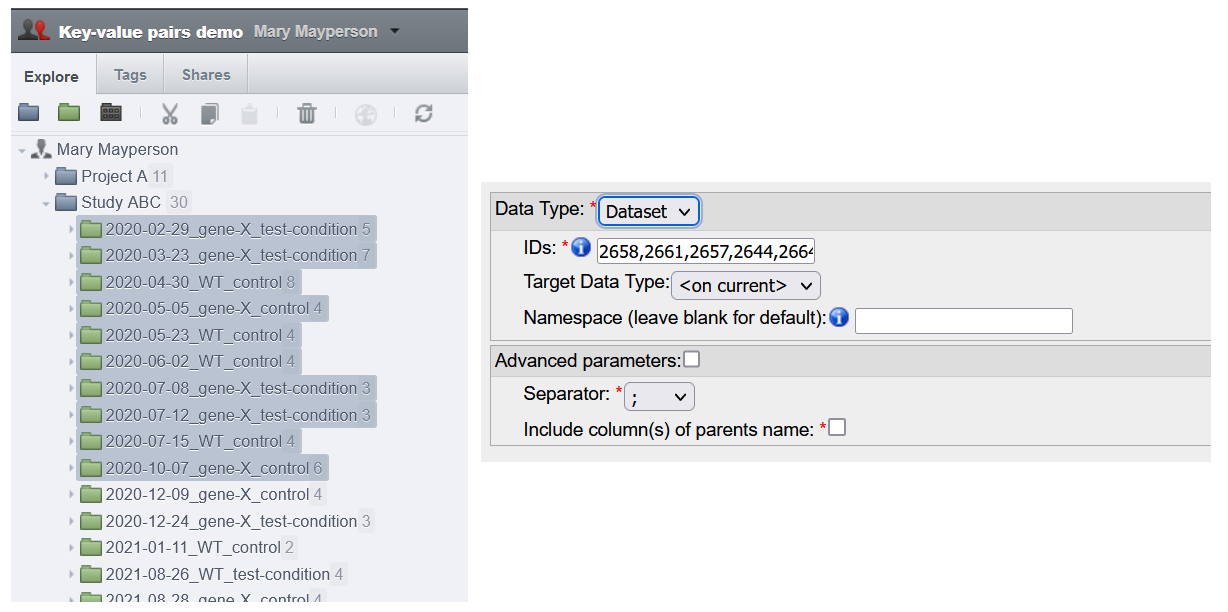
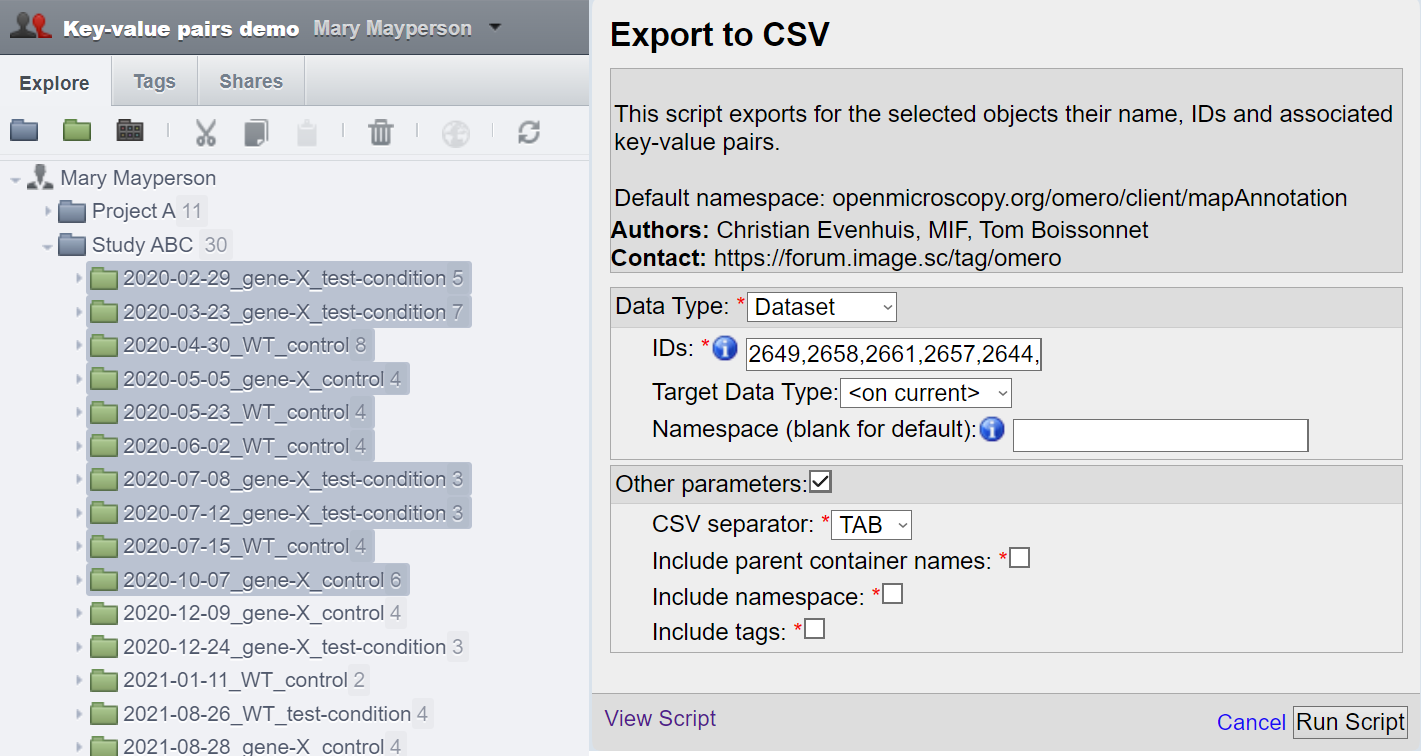
change pictures and update doc

diff --git a/docs/gettingstarted.rst b/docs/gettingstarted.rst
@@ -10,23 +10,22 @@ Key-Value pairs (MapAnnotations) and Tags (TagAnnotations) by batch:
 * Delete Key-Value pairs
 * Convert the namespaces of Key-Value pairs
 
-Following this walkthrough, we hope to give you an understanding of each \
-functionality, including the fourth one on namespaces, likely unclear \
-to a newcomer.
+Following this walkthrough, we hope to give you an understanding of \
+the four scripts that will help you to manipulate your annotations.
 
 Object selection with the scripts
 ---------------------------------
 
-The object selection is the same for the four scripts. In OMERO there are \
-two distinct hierarchies, one for high content screening, and a regular one:
+The object selection logic is the same for all four scripts. In OMERO there are \
+two distinct hierarchies:
 
 * **Projects** → **Datasets** → **Images**
 * **Screens** → **Plates** → (**Wells** or **Acquisition/Run**) → **Images**
 
-More details about selecting High-Content-Screening are described in another \
-section (:ref:`select-HCS`).
+More details about selecting High-Content-Screening are given in another \
+section (see :doc:`Selecting High-Content-Screening </indepth>`).
 
-To select objects to manipulate by batch, the scripts offer three distinct ways.
+To select which objects to manipulate by batch, the scripts offer three distinct ways.
 
 Direct selection
 ^^^^^^^^^^^^^^^^
@@ -34,7 +33,10 @@ The first is to simply select the all the desired objects. Opening the script \
 after selecting the object will prefill the script parameters with the right \
 object type and IDs:
 
-.. image:: images/1_selecting_all_autofill.png
+.. figure:: images/1_selecting_all_autofill.png
+
+   *Selection of multiple datasets and the auto-filled Export to CSV script.*
+..
 
 For the direct selection, leave the Target Data Type as **<on current>** \
 (in this example, choosing **Dataset** would also work).
@@ -45,10 +47,12 @@ Instead of selecting the objects one by one, we can select the parent object \
 and set the **Target Data Type** to the type of the children objects \
 we want to select.
 
-.. image:: images/2_selecting_parentchild_autofill.png
+.. figure:: images/2_selecting_parentchild_autofill.png
 
-In this example, we would select all the **Images** contained by the **Datasets** \
-of the **Project:701**.
+   *Selection of all the images of a project and the auto-filled Export to CSV script.*
+..
+
+In this example, we would select all the **Images** found under the **Project:701**.
 
 Tag selection
 ^^^^^^^^^^^^^
@@ -57,21 +61,25 @@ This grants additional flexibility, either to select objects attached to \
 different projects or different owners, or to have a finer control over \
 which objects to process.
 
-.. image:: images/3_selecting_tags.png
+.. figure:: images/3_selecting_tags.png
+
+   *Selection of a subset of datasets from a tag and the auto-filled Export to CSV script.*
+..
 
 The selection works in the same way as for the children selection. Note \
-that choosing **<on current>** for Target Data Type will result in an \
-error in the case of tags.
+that choosing **<on current>** for **Target Data Type** will result in an \
+error in this case.
 
 Exporting Key-Value pairs
 -------------------------
 
-Exporting Key-Value pairs will result in a .csv file with the same structure \
-you would expect when importing from a .csv file.
-As such one can re-create the original file if it is lost or has to be adapted.
+Exporting Key-Value pairs will generate a .csv file with the header names \
+expected by the import .csv script. This has two use:
 
-Additionally, it can be used to generate a .csv file with a list of object \
-names and IDs that we can fill with columns of annotation data later.
+* export existing key-value pairs (along other things like namespace or tags). \
+  This can be useful to modify them before re-import, or to transfer annotations \
+  accross groups.
+* export a list of objects with their name and ID.
 
 .. figure:: images/4_export_output.png
 
@@ -79,34 +87,33 @@ names and IDs that we can fill with columns of annotation data later.
 ..
 
   Tip: If you have Key-Value pairs attached to your objects that you do not \
-  wish to export (to create a template like shown above), specify a namespace \
-  that is not in use by any of the objects (rolling your head on the keyboard \
-  is one possibility).
-
-.. figure:: images/5_export_output_2.png
-
-   *Exported .csv with some test Key-Value pairs*
-..
+  wish to export (to create a template like shown above), specify a not-in-use \
+  namespace (any random input will work).
 
 
 Importing Key-Value pairs
 -------------------------
 
 Starting from the file we exported as explained in the previous section, \
-we proceed to edit it within a spreadsheet editor.
+we proceed to edit it within a spreadsheet editor, adding more columns to the csv:
 
-.. image:: images/5_KV_to_import.png
+.. figure:: images/5_KV_to_import.png
+
+   *Result of populating the csv shown in a notepad*
+..
 
 We added several columns to annotate our dataset with Key-Value pairs \
 following the `REMBI <https://doi.org/10.1038/s41592-021-01166-8>`_ guidelines \
-(after saving the document, it seems that our ``;`` separator was \
-replaced by ``,``).
+(after saving the document, our ``;`` separator became ``,``).
 
 We proceed and start the script **Import Key-Value from .csv**.
 
-.. image:: images/6_script_import.png
+.. figure:: images/6_script_import.png
 
-A few explanation on the parameters we chose here:
+   *Selection of all the datasets of a project and the Import from CSV script.*
+..
+
+A few explanation on some of parameters we chose here:
 
 * Data Type & ID: We selected the project containing all of our datasets.
   Only the datasets having their ID in the .csv file will be annotated with
@@ -115,25 +122,26 @@ A few explanation on the parameters we chose here:
   correspond to datasets).
 * File annotation: The .csv file was picked from the local computer via the
   **Choose file** menu (ID of attached file on OMERO could be picked instead).
-* Target ID/name colname: These refer to the column names for the columns \
-  of either the ID or name of the target objects in the .csv. You can refer to the \
-  target objects with both, although names might not be unique.
-  In our example the .csv already has the default values the script proposes.
-
+* All other parameters can help you fine tune the way to import annotations. More \
+  on that in the :doc:`advanced section</indepth>` of this guide.
 
 
 We can see in the OMERO activities that the Key-Value pairs were added to 5 \
 datasets out of the 11 present in this project (as expected). One of them \
 is shown bellow as an example.
 
-.. image:: images/7_KV_import_printout.png
+.. figure:: images/7_KV_import_printout.png
+
+  *The script output (5 entries in the csv matched to 5 dataset out of 11) and the\
+  resulting key-value pairs annotation.*
+..
 
 Converting the Key-Value pairs namespace
 ----------------------------------------
 
 Key-Value pairs are assigned a category/label (known as namespace). \
-This grants flexibility so that multiple annotations on one object can be \
-processed independantly (like exporting/deleting only those with a given \
+This grants flexibility so that different annotations can be \
+distinguished or isolated (like for exporting/deleting only those with a given \
 namespace).
 
    In fact, if you created Key-Value pairs in OMERO.web, you have used \
@@ -144,13 +152,20 @@ namespace).
 Let's go ahead and change that default client namespace to something else, \
 that will assign a category to our Key-Value pairs (and make the Key-Value \
 pairs non-editable in the webclient. Note: this does not prevent Key-Value
-pairs from other ways that exist to edit them).
+pairs from being edited by other means).
 
-.. image:: images/8_convert_namespace.png
+.. figure:: images/8_convert_namespace.png
+
+  *The script to convert the namespace of key-value pairs annotations.*
+..
 
 And here is our five Key-Value pairs annotations with converted namespace:
 
-.. image:: images/9_converted_KV.png
+.. figure:: images/9_converted_KV.png
+
+  *The script output (5 dataset had annotations with the default namespace) and the\
+  resulting key-value pairs annotation.*
+..
 
 Deleting Key-Value pairs
 ------------------------
@@ -168,16 +183,17 @@ the same parent object and the same namespace as we just did for the export, \
 we can tick the box to confirm that we understand that data will be deleted \
 **forever** from the server.
 
-(Exporting on the left, deleting on the right)
+.. figure:: images/10_export_delete.png
 
-.. image:: images/10_export_delete.png
+  *The two scripts used one after another. Export the annotations for backup \
+  before removing them from the server with the Remove KV script.*
+..
 
 We can now edit the mistakes in the .csv file and reupload the Key-Value \
 pairs (and why not, specifying the REMBI namespace directly !).
 
-And make sure to check the :doc:`extended description </indepth>` of the scripts to find out what else you can do
-with them.
-
+Make sure to check the :doc:`extended guide </indepth>` to learn about what else you can \
+do with those scripts.
 
 :Authors:
     Tom Boissonnet

diff --git a/docs/indepth.rst b/docs/indepth.rst
@@ -2,10 +2,12 @@
 Extended description
 ====================
 
+.. _select-HCS:
+
 Selecting High-Content-Screening
 --------------------------------
 Selecting HCS data follows the same selection logic as for \
-Projects/Datasets/Images: Select a plate, ask for all Wells inside it and \
+Projects/Datasets/Images: Select a Plate, ask for all Wells inside it and \
 you will be processing all the Wells of that Plate.
 
 One specificity though is about the Run/Acquisition. Runs and Wells are both \
@@ -13,11 +15,11 @@ children objects of a Plate and can be selected in this way. \
 But selecting Images from a Run or all the Wells of a plate will produce different \
 results (when there is more than one Run):
 
-  * Selecting Images from a list of Wells will select all the images inside
-    those Wells.
-  * Selecting Images from a Run will select all the images coming from that
-    Run (would correspond to a subset of Images from each Well).
-  * Selecting Images from a Screen or a Plate will follow the Well route selecting all Images inside all Wells.
+  * Selecting **Images** from a list of **Wells** will select all the **Images** inside
+    those **Wells**.
+  * Selecting **Images** from a **Run** will select all the **Images** coming from that
+    **Run** (would correspond to a subset of **Images** from each **Well**).
+  * Selecting **Images** from a **Screen** or a **Plate** will follow the **Well** route selecting all **Images** inside all **Wells**.
 
 KeyVal_from_csv
 ---------------
